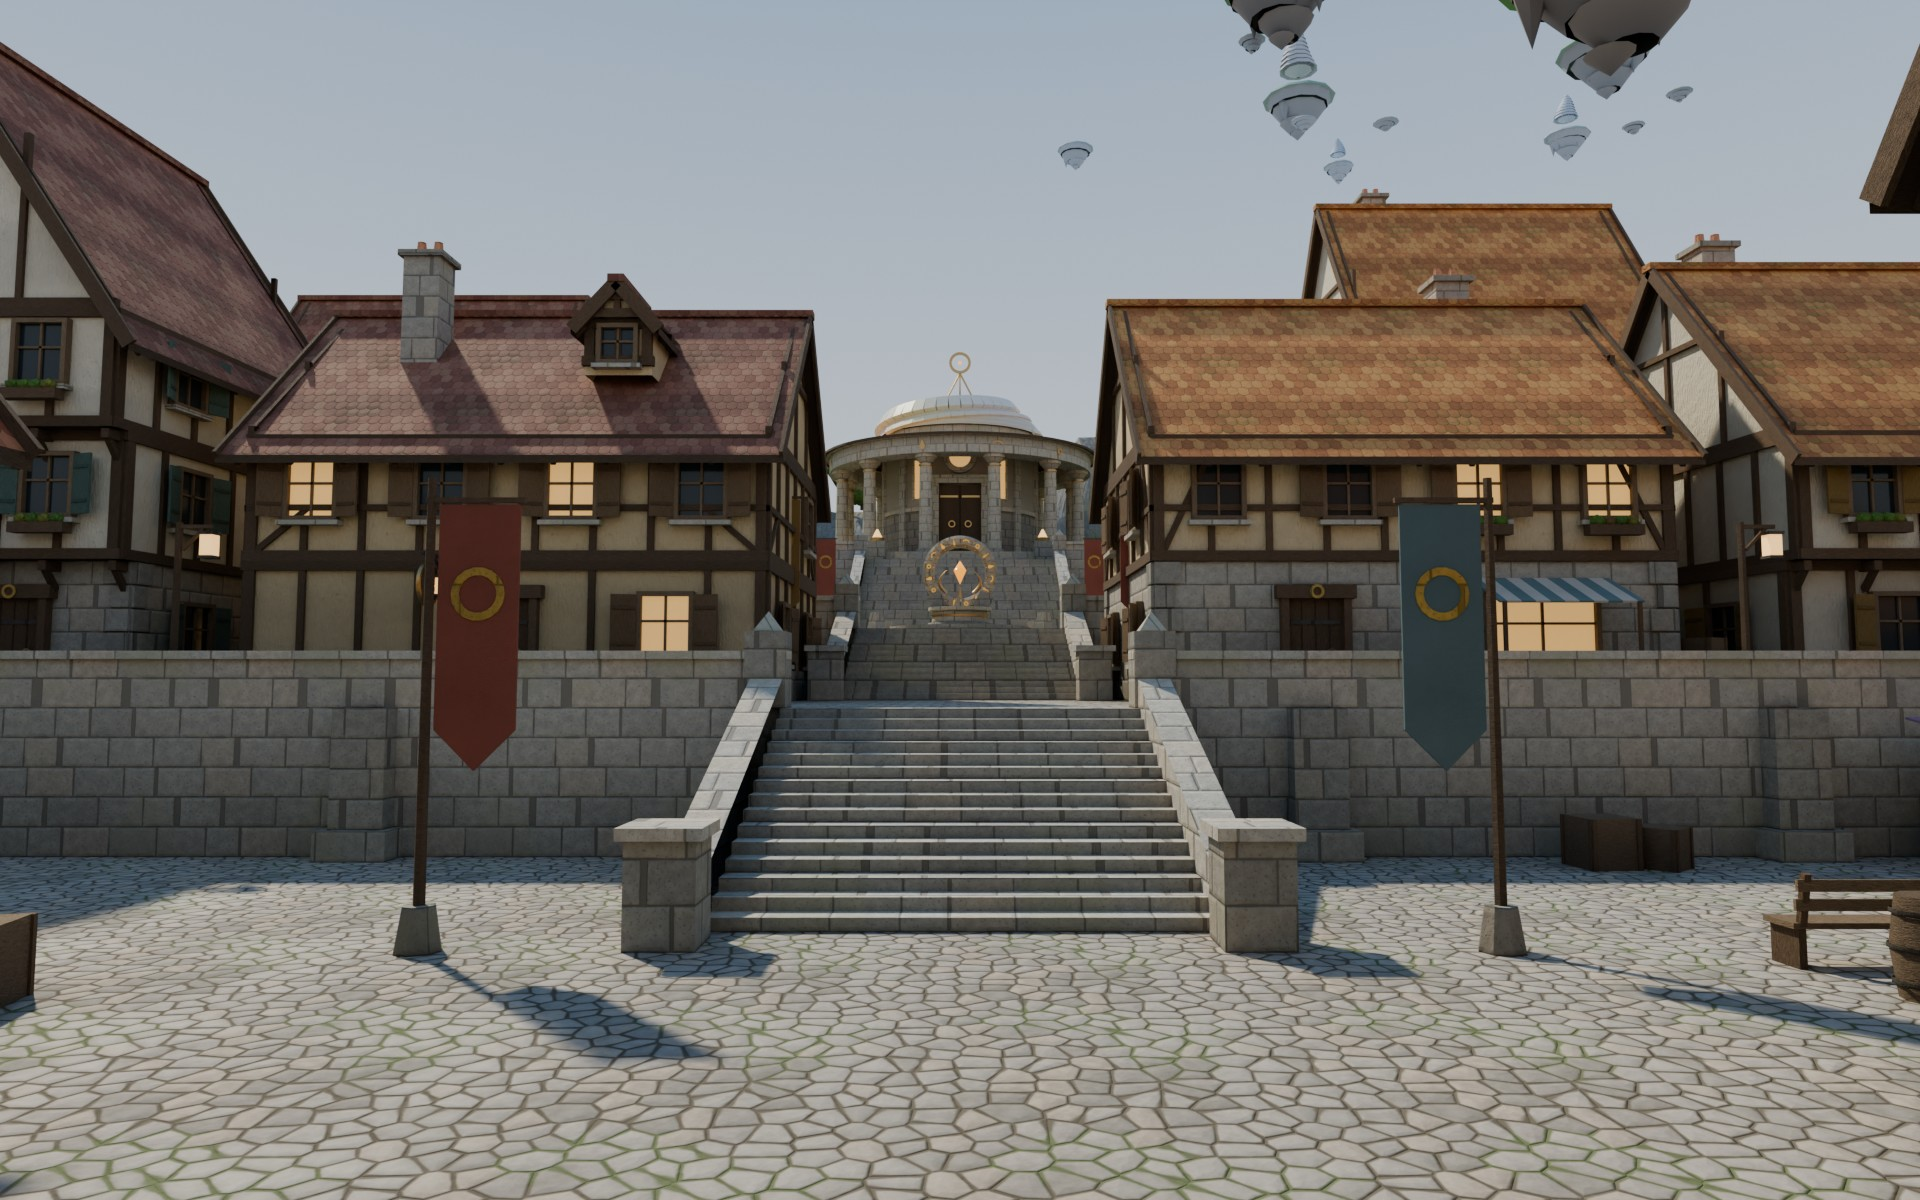
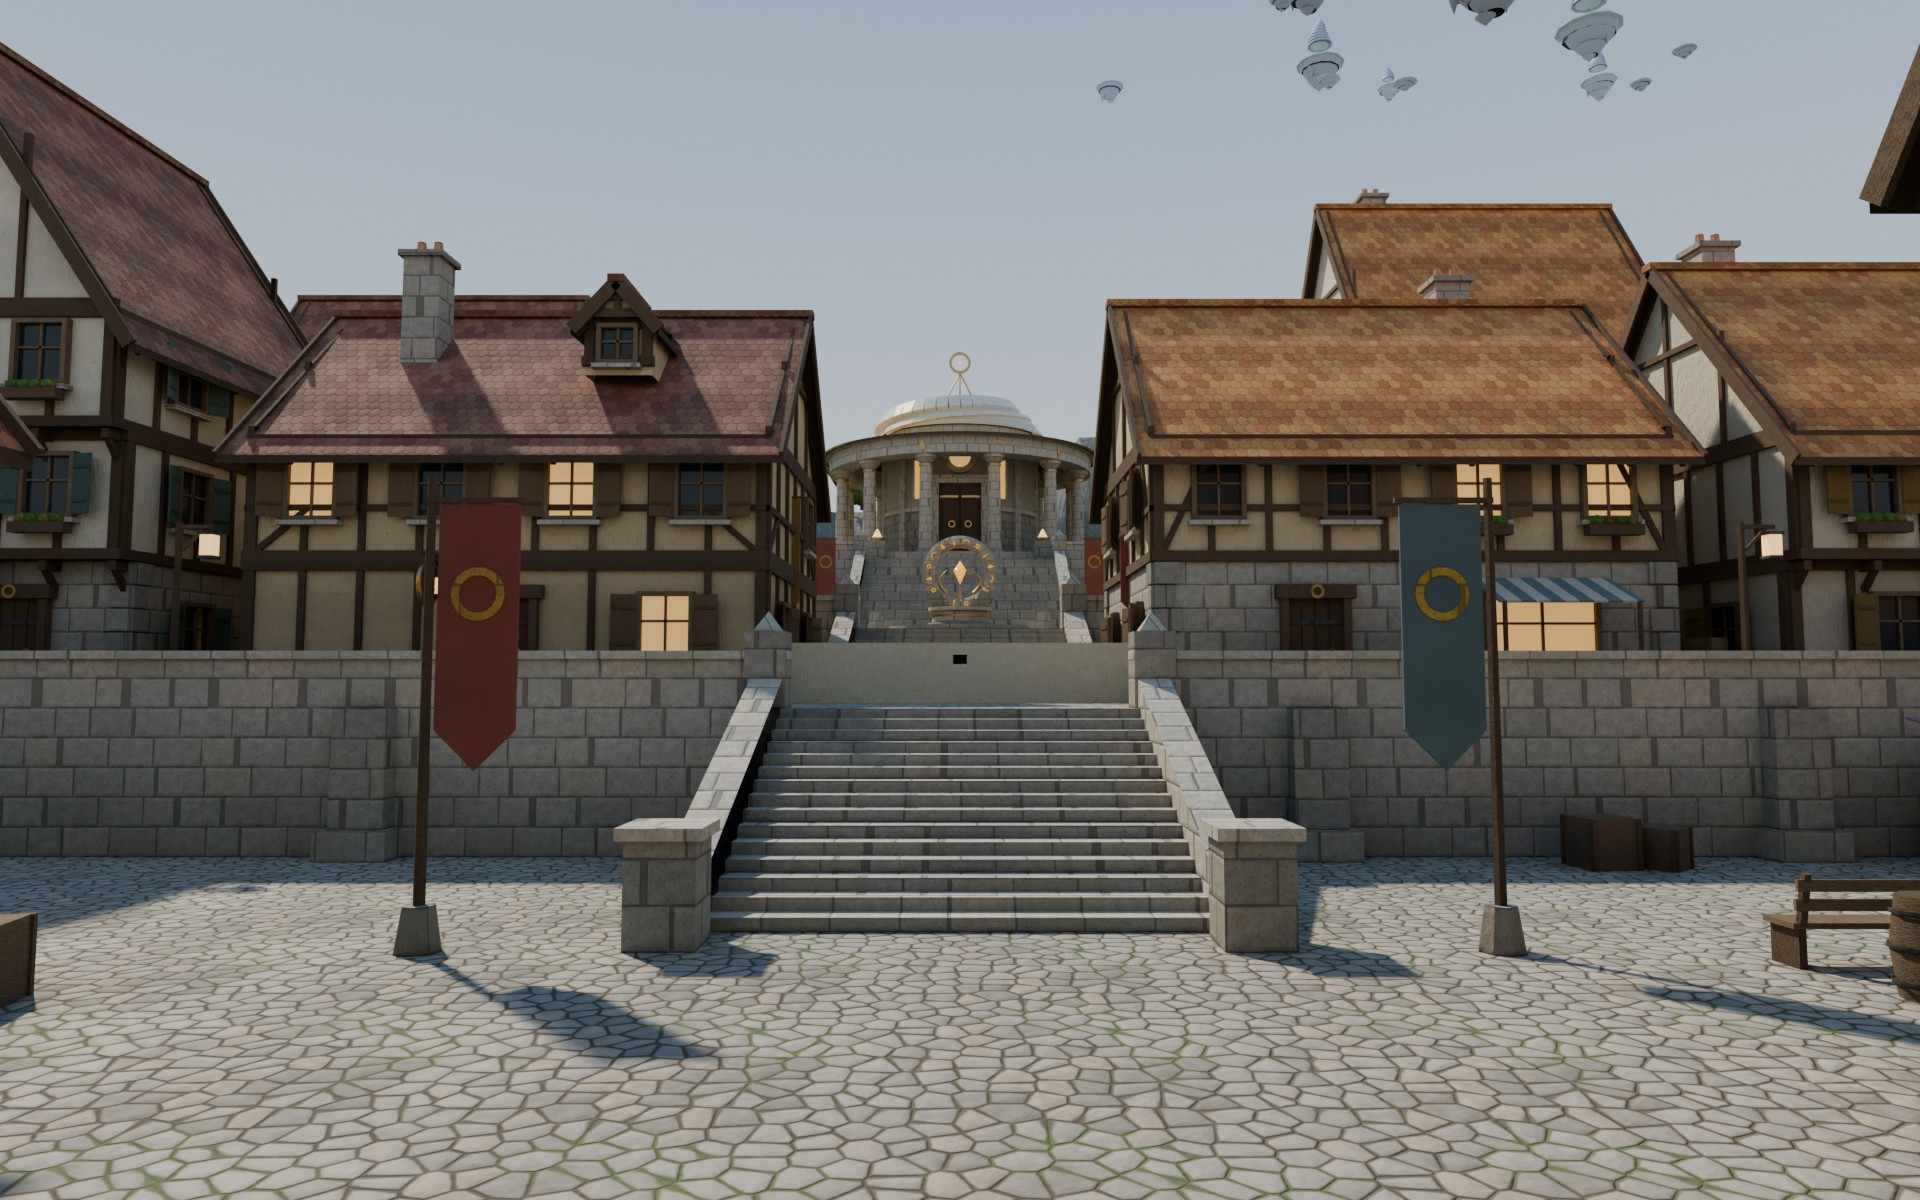
Town: the sky archipelago pushed higher and farther, half the apparent size, hazed by distance
Claude-Session: https://claude.ai/code/session_01GXNexMPppU9XEk5Q32gzVd

diff --git a/game/src/scenes/town-data.js b/game/src/scenes/town-data.js
@@ -168,16 +168,16 @@ export const TOWN_DATA = Object.freeze({
       "name": "town_sky",
       "kind": "town_sky",
       "position": [
-        150.0,
-        200.0,
-        -300.0
+        165.0,
+        225.0,
+        -320.0
       ],
       "center": [
-        161.58,
-        218.52,
-        -387.99
+        176.57,
+        252.05,
+        -409.78
       ],
-      "radius": 205.6
+      "radius": 161.8
     }
   ],
   "interiors": [

diff --git a/art/town/town_altar.py b/art/town/town_altar.py
@@ -354,9 +354,9 @@ def sky_archipelago(tb, scale):
     s = scale
     # x, y, z offsets (m), radius, underside depth, haze amount
     # three depth groups (GPT review): near and large, middle, far and small; haze grows with depth
-    isles = [(20, -6, 40, 30, 34, 0.05), (-58, 4, 10, 17, 21, 0.12),
-             (74, 22, -60, 15, 18, 0.34), (-18, 30, -110, 13, 16, 0.44),
-             (118, 44, -170, 9, 11, 0.64), (-96, 52, -200, 8, 10, 0.70), (40, 62, -240, 7, 9, 0.76)]
+    isles = [(0, 0, 0, 15, 17, 0.30), (-52, 6, -14, 10, 12, 0.36),
+             (70, 22, -70, 11, 13, 0.52), (-18, 30, -110, 9, 11, 0.58),
+             (118, 44, -150, 7, 9, 0.72), (-96, 52, -170, 6, 8, 0.77), (40, 62, -190, 5, 7, 0.82)]
     for i, (x, y, z, r, d, k) in enumerate(isles):
         island(x * s, y * s, z * s, r * s, d * s, k, 100 + i)
         if i not in (1, 5):

diff --git a/art/town/town_plan.py b/art/town/town_plan.py
@@ -99,7 +99,7 @@ BLOCKS = {
 }
 
 # The archipelago seen far up in the sky to the north (an impostor at reduced scale, visual only).
-SKY = {"x": 150.0, "y": 200.0, "z": -300.0, "scale": 1.0}
+SKY = {"x": 165.0, "y": 225.0, "z": -320.0, "scale": 1.0}
 
 # Paved rectangles (x0, x1, z0, z1) per terrace; everything else is grass and packed earth.
 PAVED = {
